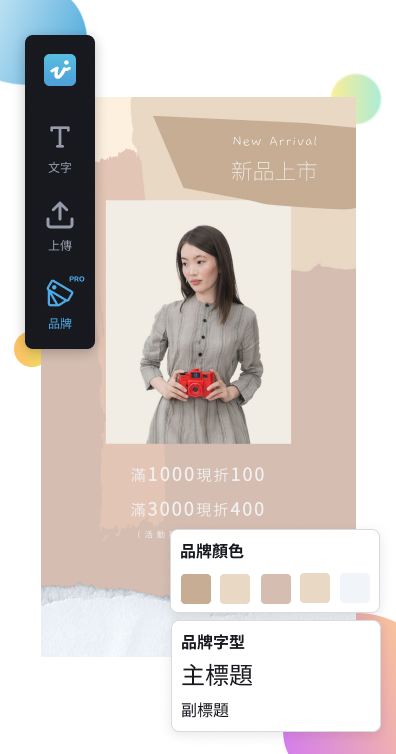
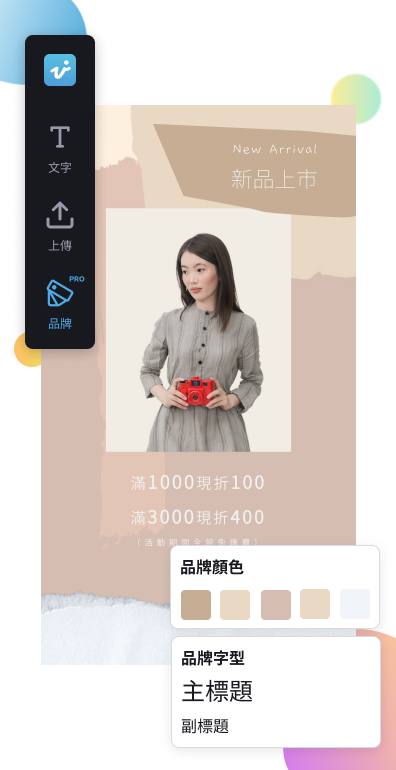
[Add] Popup payment pro-template.
[Fix] Popup payment image size issue.

diff --git a/src/components/popup/PopupPayment.vue b/src/components/popup/PopupPayment.vue
@@ -56,7 +56,11 @@
               btn(v-for="button in buttons" :type="button.type || 'primary-lg'"
                   :disabled="button.disabled ? button.disabled() : false"
                   @click.native="button.func()") {{button.label}}
-          img(class="payment-right" :src="require(`@/assets/img/jpg/pricing/${locale}/${img}`)")
+          div(class="payment-right")
+            img(class="payment-right-bg"
+                :src="require(`@/assets/img/jpg/pricing/${locale}/${img}`)")
+            img(v-if="view === 'pro-template'"
+                class="payment-right-temp"  :src="templateImg")
           div(v-if="view === 'finish'" class="payment-finish")
             div(class="payment-finish-content")
               animation(path="/lottie/pro.json")
@@ -116,6 +120,7 @@ export default Vue.extend({
     ...mapFields({ periodUi: 'periodUi' }),
     ...mapState('payment', {
       initView: 'initView',
+      templateImg: 'templateImg',
       userCountryUi: 'userCountryUi',
       userCountryInfo: 'userCountryInfo',
       switchPaidDate: 'switchPaidDate',
@@ -135,7 +140,7 @@ export default Vue.extend({
       return ['step2', 'switch2'].includes(this.view)
     },
     showFeature(): boolean {
-      return ['cancel1', 'brandkit', 'bgrm', 'pro template'].includes(this.view)
+      return ['cancel1', 'brandkit', 'bgrm', 'pro-template'].includes(this.view)
     },
     cancelReason(): string {
       return Number(this.reasonIndex) < this.cancel2.length - 1
@@ -161,9 +166,9 @@ export default Vue.extend({
           return [i18n.t('NN0583') as string, 'brandkit.jpg']
         case 'bgrm':
           return [i18n.t('NN0652') as string, 'remover.jpg']
-        case 'pro template':
+        case 'pro-template':
         default:
-          return [i18n.t('NN0653') as string, 'pro-template.jpg']
+          return [i18n.t('NN0653') as string, 'templateBG.jpg']
       }
     },
     async changeView(name: string) {
@@ -171,7 +176,7 @@ export default Vue.extend({
       switch (name) {
         case 'brandkit':
         case 'bgrm':
-        case 'pro template':
+        case 'pro-template':
           this.title = i18n.tc('NN0507', 2) as string
           [this.description, this.img] = this.getAd(name)
           this.buttons = [{
@@ -197,7 +202,7 @@ export default Vue.extend({
           this.title = i18n.t('NN0551') as string
           this.description = ''
           this.buttons = [] // Use button in PaymentField.vue
-          this.img = 'pro-template.jpg'
+          this.img = 'pro-template1.jpg'
           break
         case 'finish':
           this.getBillingInfo()
@@ -224,7 +229,7 @@ export default Vue.extend({
               this.closePopup()
             }
           }]
-          this.img = 'pro-template.jpg'
+          this.img = 'pro-template1.jpg'
           break
         case 'cancel1':
           this.title = i18n.t('NN0569') as string
@@ -398,6 +403,19 @@ export default Vue.extend({
     padding: 10px;
     border: 1px solid setColor(gray-4);
     border-radius: 4px;
+  }
+}
+
+.payment-right {
+  display: flex;
+  justify-content: center;
+  align-items: center;
+  padding: 40px 25px;
+  &-bg { position: absolute; }
+  &-temp {
+    max-width: 100%;
+    max-height: 100%;
+    z-index: 1;
   }
 }
 

diff --git a/src/store/module/payment.ts b/src/store/module/payment.ts
@@ -9,6 +9,7 @@ import generalUtils from '@/utils/generalUtils'
 interface IPaymentState {
   isLoading: boolean
   initView: string
+  templateImg: string
   // Constant
   status: string
   plans: Record<string, Record<string, Record<string, string>|string>>
@@ -120,6 +121,7 @@ function getStatus(isPro: number, isCancelingPro: number, cardStatus: number) {
 const getDefaultState = (): IPaymentState => ({
   isLoading: false,
   initView: '',
+  templateImg: '',
   // Constant
   status: 'Loading',
   plans: {
@@ -542,6 +544,9 @@ const mutations: MutationTree<IPaymentState> = {
   },
   SET_initView(state: IPaymentState, initView) {
     state.initView = initView
+  },
+  SET_templateImg(state: IPaymentState, templateImg) {
+    state.templateImg = templateImg
   },
   DEL_guiWhiteSpace(state: IPaymentState) {
     state.billingInfo.GUI = state.billingInfo.GUI.replace(/\s/g, '')

diff --git a/src/utils/paymentUtils.ts b/src/utils/paymentUtils.ts
@@ -5,9 +5,10 @@ import modalUtils from './modalUtils'
 import popupUtils from './popupUtils'
 
 class PaymentUtils {
-  openPayment(initView: string) {
+  openPayment(initView: string, templateImg = '') {
     store.commit('brandkit/SET_isSettingsOpen', false)
     store.commit('payment/SET_initView', initView)
+    store.commit('payment/SET_templateImg', templateImg)
     popupUtils.openPopup('payment')
   }
 
